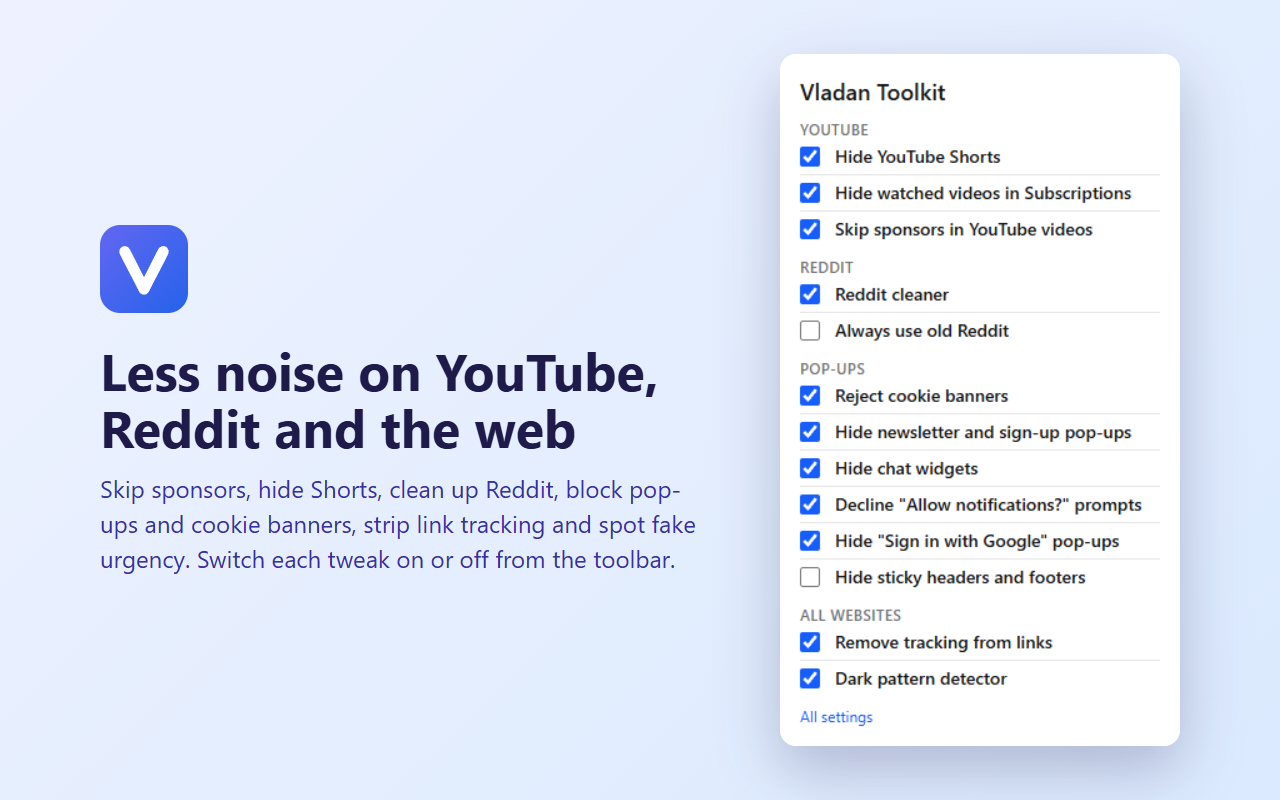
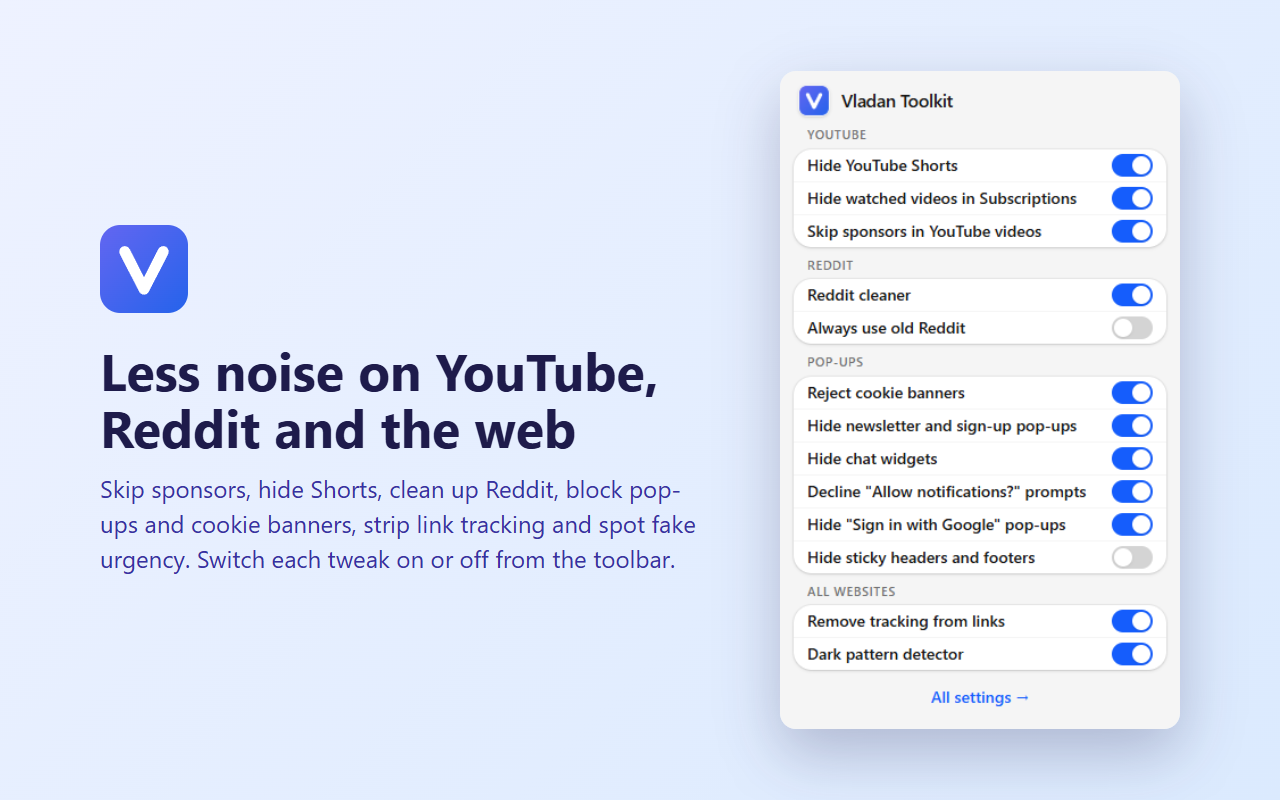
feat: modern look for the popup and settings page
Sliding switches on the right, each group in a rounded card on a soft background,
an app header with the version as a pill, proper dark mode, visible keyboard focus
and reduced-motion support. The popup stays under Chrome's 600px popup height.

Changed region(s): [[0.5938, 0.0625, 0.9375, 0.9375], [0.8438, 0.75, 0.9062, 0.8438], [0.8438, 0.3438, 0.9062, 0.4375]]

diff --git a/src/components/FeatureToggles.tsx b/src/components/FeatureToggles.tsx
@@ -3,12 +3,12 @@ import { features } from '@/features/registry';
 import { type Feature, featureEnabled, featureGroups } from '@/lib/features';
 
 /**
- * One on/off switch per registered feature, grouped by site and kept in sync with storage.
+ * One on/off switch per registered feature, in a card per group, kept in sync with storage.
  * `compact` (the popup) shows descriptions only on hover and to screen readers.
  */
 export function FeatureToggles({ compact = false }: { compact?: boolean }) {
   return (
-    <div className={compact ? 'mt-2 space-y-2' : 'mt-6 space-y-6'}>
+    <div className={compact ? 'space-y-2' : 'space-y-6'}>
       {featureGroups.map((group) => {
         const inGroup = features.filter((feature) => feature.group === group);
         if (inGroup.length === 0) return null;
@@ -17,11 +17,11 @@ export function FeatureToggles({ compact = false }: { compact?: boolean }) {
           <section key={group} aria-labelledby={headingId}>
             <h2
               id={headingId}
-              className="text-xs font-semibold uppercase tracking-wide text-neutral-500"
+              className="mb-1 px-3 text-[11px] font-semibold uppercase tracking-wider text-neutral-500 dark:text-neutral-400"
             >
               {group}
             </h2>
-            <ul className="divide-y divide-neutral-200 dark:divide-neutral-700">
+            <ul className="divide-y divide-neutral-100 overflow-hidden rounded-2xl bg-white shadow-sm ring-1 ring-black/5 dark:divide-white/5 dark:bg-neutral-900 dark:ring-white/10">
               {inGroup.map((feature) => (
                 <FeatureToggle key={feature.id} feature={feature} compact={compact} />
               ))}
@@ -32,6 +32,15 @@ export function FeatureToggles({ compact = false }: { compact?: boolean }) {
     </div>
   );
 }
+
+// A sliding switch drawn on the checkbox itself (pseudo-element knob), so it stays a native input.
+const switchClass =
+  'relative h-5 w-9 shrink-0 cursor-pointer appearance-none rounded-full bg-neutral-300 transition-colors duration-200 ' +
+  'before:absolute before:top-0.5 before:left-0.5 before:size-4 before:rounded-full before:bg-white before:shadow ' +
+  'before:transition-transform before:duration-200 checked:bg-blue-600 checked:before:translate-x-4 ' +
+  'focus-visible:outline-2 focus-visible:outline-offset-2 focus-visible:outline-blue-500 ' +
+  'disabled:cursor-default disabled:opacity-50 motion-reduce:transition-none motion-reduce:before:transition-none ' +
+  'dark:bg-neutral-700 dark:checked:bg-blue-500';
 
 function FeatureToggle({ feature, compact }: { feature: Feature; compact: boolean }) {
   const [enabled, setEnabled] = useState<boolean>();
@@ -46,14 +55,25 @@ function FeatureToggle({ feature, compact }: { feature: Feature; compact: boolea
   const checked = enabled ?? feature.enabledByDefault;
   return (
     <li
-      className={`flex items-start gap-3 ${compact ? 'py-1' : 'py-3'}`}
+      className={`flex items-center justify-between gap-4 ${compact ? 'px-3 py-1' : 'px-4 py-3'}`}
       title={compact ? feature.description : undefined}
     >
+      <div className="min-w-0">
+        <label htmlFor={inputId} className="cursor-pointer text-sm font-medium">
+          {feature.name}
+        </label>
+        <p
+          id={`${inputId}-description`}
+          className={compact ? 'sr-only' : 'mt-0.5 text-xs text-neutral-500 dark:text-neutral-400'}
+        >
+          {feature.description}
+        </p>
+      </div>
       <input
         id={inputId}
         type="checkbox"
         role="switch"
-        className="mt-0.5 size-4 shrink-0 accent-blue-600"
+        className={switchClass}
         checked={checked}
         aria-checked={checked}
         disabled={enabled === undefined}
@@ -64,17 +84,6 @@ function FeatureToggle({ feature, compact }: { feature: Feature; compact: boolea
           featureEnabled(feature).setValue(event.target.checked);
         }}
       />
-      <div>
-        <label htmlFor={inputId} className="text-sm font-medium">
-          {feature.name}
-        </label>
-        <p
-          id={`${inputId}-description`}
-          className={compact ? 'sr-only' : 'text-xs text-neutral-500'}
-        >
-          {feature.description}
-        </p>
-      </div>
     </li>
   );
 }

diff --git a/src/entrypoints/popup/App.tsx b/src/entrypoints/popup/App.tsx
@@ -3,19 +3,25 @@ import { getVersionLabel } from '@/lib/version';
 
 export default function App() {
   return (
-    <main className="w-80 p-4 font-sans">
-      <h1 className="text-lg font-semibold">Vladan Toolkit</h1>
-      <FeatureToggles compact />
-      <footer className="mt-2 flex items-center justify-between text-xs text-neutral-400">
-        <button
-          type="button"
-          className="text-blue-600 hover:underline dark:text-blue-400"
-          onClick={() => browser.runtime.openOptionsPage()}
+    <main className="w-[22rem] p-3 font-sans">
+      <header className="mb-2 flex items-center gap-2.5 px-1">
+        <img src="/icon/48.png" alt="" className="size-7 rounded-lg shadow-sm" />
+        <h1 className="text-base font-semibold tracking-tight">Vladan Toolkit</h1>
+        <span
+          data-testid="version"
+          className="ml-auto rounded-full bg-neutral-200/70 px-2 py-0.5 text-[11px] font-medium text-neutral-600 dark:bg-white/10 dark:text-neutral-300"
         >
-          All settings
-        </button>
-        <span data-testid="version">{getVersionLabel(browser.runtime.getManifest().version)}</span>
-      </footer>
+          {getVersionLabel(browser.runtime.getManifest().version)}
+        </span>
+      </header>
+      <FeatureToggles compact />
+      <button
+        type="button"
+        className="mt-2 w-full rounded-xl px-3 py-1.5 text-sm font-medium text-blue-600 transition-colors hover:bg-blue-600/10 focus-visible:outline-2 focus-visible:outline-blue-500 dark:text-blue-400 dark:hover:bg-blue-400/10"
+        onClick={() => browser.runtime.openOptionsPage()}
+      >
+        All settings →
+      </button>
     </main>
   );
 }

diff --git a/src/entrypoints/options/main.tsx b/src/entrypoints/options/main.tsx
@@ -8,11 +8,16 @@ if (!root) throw new Error('Options root element not found');
 
 createRoot(root).render(
   <StrictMode>
-    <main className="mx-auto max-w-xl p-8 font-sans">
-      <h1 className="text-2xl font-semibold">Vladan Toolkit settings</h1>
-      <p className="mt-1 text-sm text-neutral-500">
-        Turn features on or off. Changes apply immediately, also on open tabs.
-      </p>
+    <main className="mx-auto max-w-2xl px-6 py-10 font-sans">
+      <header className="mb-8 flex items-center gap-4">
+        <img src="/icon/96.png" alt="" className="size-12 rounded-2xl shadow-sm" />
+        <div>
+          <h1 className="text-2xl font-semibold tracking-tight">Vladan Toolkit settings</h1>
+          <p className="mt-0.5 text-sm text-neutral-500 dark:text-neutral-400">
+            Turn features on or off. Changes apply immediately, also on open tabs.
+          </p>
+        </div>
+      </header>
       <FeatureToggles />
     </main>
   </StrictMode>,

diff --git a/scripts/generate-store-assets.ts b/scripts/generate-store-assets.ts
@@ -19,7 +19,7 @@ const extensionUrl = (page: string) => `chrome-extension://${new URL(worker.url(
 
 // The popup at 2x, to embed in the marketing screenshot.
 const popupPage = await context.newPage();
-await popupPage.setViewportSize({ width: 320, height: 600 });
+await popupPage.setViewportSize({ width: 352, height: 600 });
 await popupPage.goto(extensionUrl('popup.html'));
 // The version label would go stale with every release.
 await popupPage.addStyleTag({ content: '[data-testid="version"]{visibility:hidden}' });

diff --git a/src/assets/global.css b/src/assets/global.css
@@ -5,5 +5,5 @@
 }
 
 body {
-  @apply bg-white text-neutral-900 dark:bg-neutral-900 dark:text-neutral-100;
+  @apply bg-neutral-100 text-neutral-900 antialiased dark:bg-neutral-950 dark:text-neutral-100;
 }
